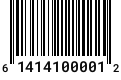
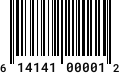
GTIN-12 barcode and numbers updated for better readability.

Changed region(s): [[0.1488, 0.7, 0.8678, 0.925], [0.0, 0.8, 0.0744, 0.9]]

diff --git a/src/Gtin12.php b/src/Gtin12.php
@@ -94,14 +94,14 @@ class Gtin12 extends Gtin
         $bcWidth  = imagesx($barcode);
         $bcHeight = imagesy($barcode);
 
-        $whiteBG = imagecreatetruecolor(20, 20);
+        $whiteBG = imagecreatetruecolor(10, 10);
         $bgColor = imagecolorallocate($whiteBG, 255, 255, 255);
         imagefilledrectangle(
             $whiteBG,
             0,
             0,
-            20,
-            20,
+            10,
+            10,
             $bgColor
         );
         imagecopyresampled(
@@ -111,10 +111,23 @@ class Gtin12 extends Gtin
             $bcHeight - 8,
             0,
             0,
-            $bcWidth - 10,
-            20,
-            20,
-            20
+            (int) ($bcWidth / 2  - 6),
+            10,
+            10,
+            10
+        );
+
+        imagecopyresampled(
+            $barcode,
+            $whiteBG,
+            (int) ($bcWidth / 2  + 5),
+            $bcHeight - 8,
+            0,
+            0,
+            (int) ($bcWidth / 2  - 9),
+            10,
+            10,
+            10
         );
 
         // Canvas for new (final) image
@@ -138,7 +151,7 @@ class Gtin12 extends Gtin
             $canvas,
             8,
             0,
-            2,
+            0,
             $bcHeight + 8,
             imagecolorallocate($barcode, 10, 10, 10),
             'resources/RobotoMono-SemiBold.ttf',
@@ -146,13 +159,23 @@ class Gtin12 extends Gtin
         );
         imagettftext(
             $canvas,
-            11,
+            10,
             0,
             17,
             $bcHeight + 8,
             imagecolorallocate($barcode, 10, 10, 10),
             'resources/RobotoMono-SemiBold.ttf',
-            substr((string) $this->number, 1, -1)
+            substr((string) $this->number, 1, 5)
+        );
+        imagettftext(
+            $canvas,
+            10,
+            0,
+            66,
+            $bcHeight + 8,
+            imagecolorallocate($barcode, 10, 10, 10),
+            'resources/RobotoMono-SemiBold.ttf',
+            substr((string) $this->number, 6, 5)
         );
         imagettftext(
             $canvas,
